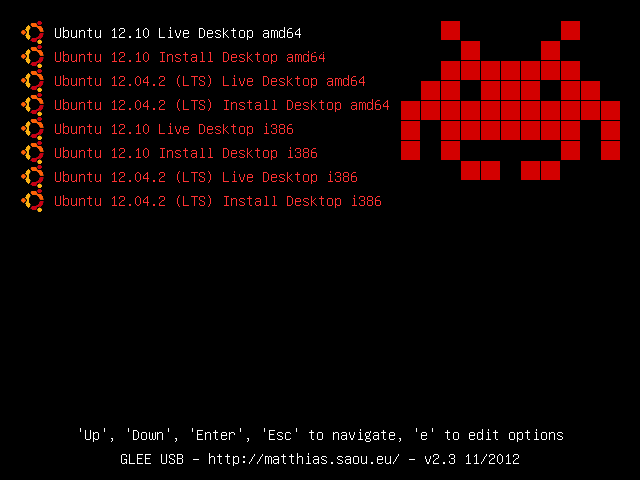
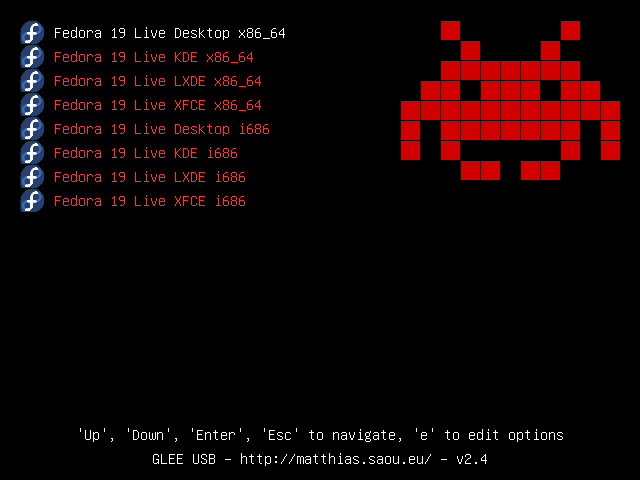
Update Fedora to 19, which no longer requires a modified initrd

diff --git a/README.md b/README.md
@@ -108,21 +108,6 @@ Note that on 32bit computers, all 64bit entries will be automatically hidden.
 Special Cases
 -------------
 
-### Fedora
-
-Fedora Live ISOs require a patched initrd to work (still as of Fedora 18) :
-
-* https://bugzilla.redhat.com/show_bug.cgi?id=650672
-* https://gist.github.com/2132076
-
-To create the required initrd files (about 15MB each), one per architecture
-(shared for all Desktop/KDE/LXDE/XFCE variants) you will need to use the
-scripts (found in the scripts sub-directory) :
-
-    ./fedora18-fromiso ${USBMNT:-/mnt}/boot/iso/fedora/Fedora-18-i686-Live-Desktop.iso ${USBMNT:-/mnt}/boot/iso/fedora/Fedora-18-i686-initrd.img
-    ./fedora18-fromiso ${USBMNT:-/mnt}/boot/iso/fedora/Fedora-18-x86_64-Live-Desktop.iso ${USBMNT:-/mnt}/boot/iso/fedora/Fedora-18-x86_64-initrd.img
-
-
 ### Red Hat Enterprise Linux
 
 RHEL isn't "live" as such. And in order for the install to work, you need to
